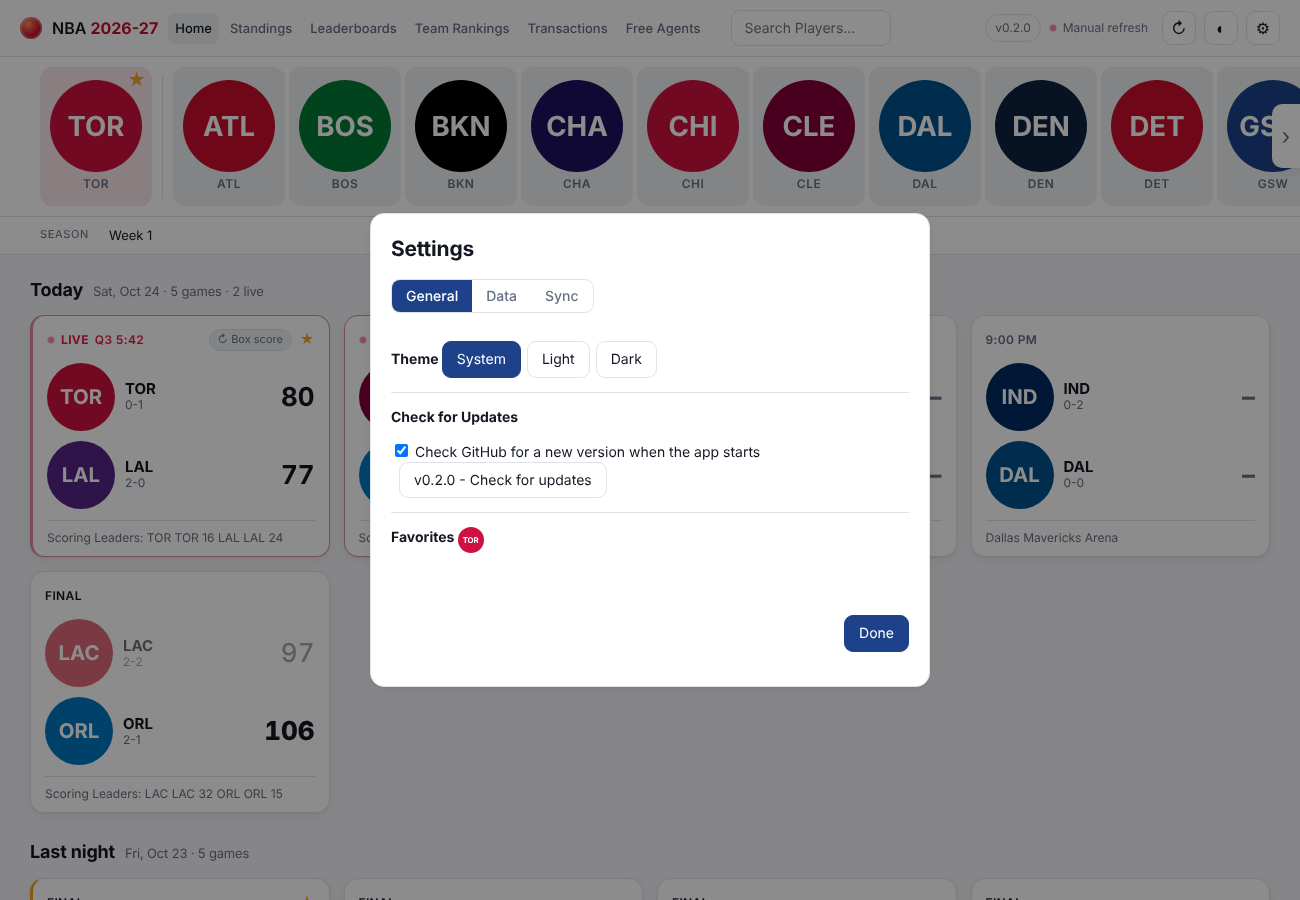
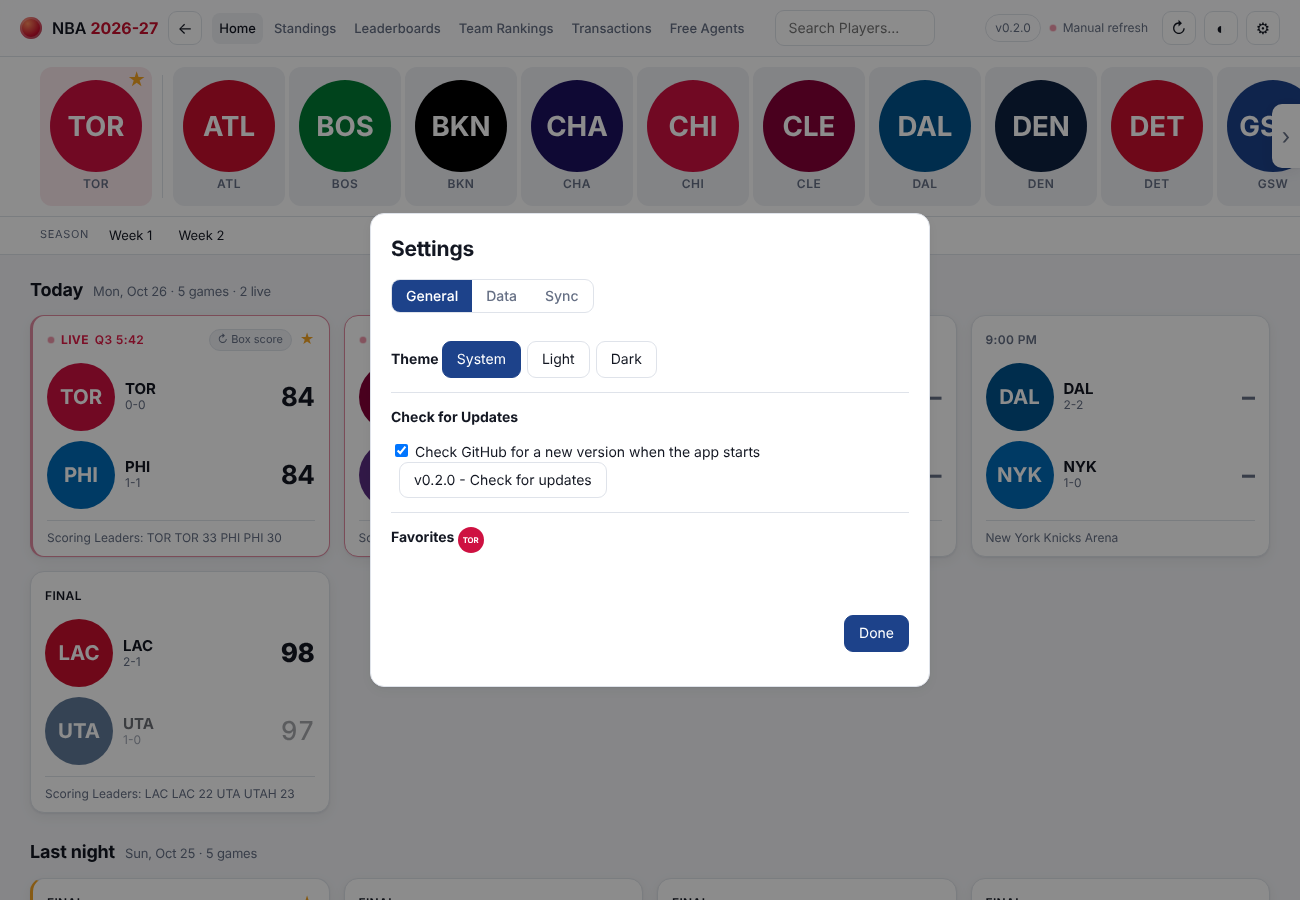
Feature - Back button, starters card; Bug/Fix - Monday weeks, fair samples on Losers cards
Claude-Session: https://claude.ai/code/session_016H3S1Tf6ZiEigWsjrNXmq9

diff --git a/ui/js/stats.js b/ui/js/stats.js
@@ -132,13 +132,15 @@ const pct = (m, a) => (a > 0 ? (100 * m) / a : NaN);
 
 // minGames-scaled qualification keeps tiny samples out early in the season
 export const LEADER_DEFS = [
+  { key: 'ptsStarters', loser: 'Fewest Points (Starters)', loserOnly: true, title: 'Points (Starters)', unit: 'PPG', v: (p) => per(p, 'pts'), f: 1,
+    ok: (p) => p.gs * 2 >= p.gp, sub: (p) => `${p.gs} GS \u00b7 ${p.gp} GP` },
   { key: 'pts', loser: 'Fewest Points', title: 'Points', unit: 'PPG', v: (p) => per(p, 'pts'), f: 1 },
   { key: 'reb', title: 'Rebounds', unit: 'RPG', v: (p) => per(p, 'reb'), f: 1 },
   { key: 'ast', title: 'Assists', unit: 'APG', v: (p) => per(p, 'ast'), f: 1 },
   { key: 'tpm', title: '3-Pointers Made', unit: '3PM/G', v: (p) => per(p, 'tpm'), f: 1 },
   { key: 'fgp', loser: 'Worst Field Goal %', title: 'Field Goal %', unit: 'FG%', v: (p) => pct(p.tot.fgm, p.tot.fga), f: 1, suffix: '%', ok: (p, a) => p.tot.fga >= 3 * a.games, sub: (p) => `${p.tot.fgm}/${p.tot.fga} FG` },
-  { key: 'tpp', loser: 'Worst 3-Point %', title: '3-Point %', unit: '3P%', v: (p) => pct(p.tot.tpm, p.tot.tpa), f: 1, suffix: '%', ok: (p, a) => p.tot.tpa >= 1 * a.games, sub: (p) => `${p.tot.tpm}/${p.tot.tpa} 3PT` },
-  { key: 'ftp', loser: 'Worst Free Throw %', title: 'Free Throw %', unit: 'FT%', v: (p) => pct(p.tot.ftm, p.tot.fta), f: 1, suffix: '%', ok: (p, a) => p.tot.fta >= 1 * a.games, sub: (p) => `${p.tot.ftm}/${p.tot.fta} FT` },
+  { key: 'tpp', loser: 'Worst 3-Point %', title: '3-Point %', unit: '3P%', v: (p) => pct(p.tot.tpm, p.tot.tpa), f: 1, suffix: '%', ok: (p, a) => p.tot.tpa >= 1 * a.games, okWorst: (p) => p.tot.tpa >= 10, sub: (p) => `${p.tot.tpm}/${p.tot.tpa} 3PT` },
+  { key: 'ftp', loser: 'Worst Free Throw %', title: 'Free Throw %', unit: 'FT%', v: (p) => pct(p.tot.ftm, p.tot.fta), f: 1, suffix: '%', ok: (p, a) => p.tot.fta >= 1 * a.games, okWorst: (p) => p.tot.fta >= 5, sub: (p) => `${p.tot.ftm}/${p.tot.fta} FT` },
   { key: 'stl', title: 'Steals', unit: 'SPG', v: (p) => per(p, 'stl'), f: 1 },
   { key: 'blk', title: 'Blocks', unit: 'BPG', v: (p) => per(p, 'blk'), f: 1 },
   { key: 'stocks', title: 'Stocks (Steals + Blocks)', unit: 'per game', v: (p) => (p.tot.stl + p.tot.blk) / p.gp, f: 1 },
@@ -158,7 +160,7 @@ export const LEADER_DEFS = [
 ];
 
 // Ranks players for every category. ctxFor(p) gives that player's team context {games, T, O}.
-// minMpg: minutes per team game needed to appear at all; minGpShare: share of team games the player must have played.
+// minMpg: minutes per game played needed to appear at all; minGpShare: share of team games the player must have played.
 // worst: the Losers view. Same qualification, reversed order, and only the categories where a low number means a player is bad at the game.
 // Small edge for a bigger sample: each value is pulled toward the pool average as if half an average game were added,
 // so a player with more games ranks ahead of one with fewer games and a near-identical number. The value shown is unchanged.
@@ -174,7 +176,7 @@ export function rankAll(players, ctxFor, top, { minMpg = 8, minGpShare = 0, wors
     const rows = players
       .filter((p) => {
         const c = ctxFor(p);
-        return c && c.games > 0 && p.gp > 0 && p.gp >= Math.ceil(minGpShare * c.games) && p.tot.min / c.games >= minMpg && (!d.ok || d.ok(p, c));
+        return c && c.games > 0 && p.gp > 0 && p.gp >= Math.ceil(minGpShare * c.games) && p.tot.min / p.gp >= minMpg && (!d.ok || d.ok(p, c)) && (!worst || !d.okWorst || d.okWorst(p));
       })
       .map((p) => ({ p, value: d.v(p, ctxFor(p)) }))
       .filter((r) => Number.isFinite(r.value));

diff --git a/ui/js/store.js b/ui/js/store.js
@@ -50,8 +50,10 @@ export const state = {
 // ---- season weeks: ESPN's "Week 1" is Oct 20-26, 2026 (opening night is a Tuesday); each week runs 7 days from there
 export const SEASON_START = '20261020';
 const keyToUtc = (k) => Date.UTC(+k.slice(0, 4), +k.slice(4, 6) - 1, +k.slice(6, 8));
-export const weekOfKey = (k) => Math.floor((keyToUtc(k) - keyToUtc(SEASON_START)) / 86400000 / 7) + 1;
-export const weekDayKeys = (n) => Array.from({ length: 7 }, (_, i) => addDaysKey(SEASON_START, (n - 1) * 7 + i));
+// Weeks run Monday to Sunday; Week 1 is the Monday-Sunday week the season opens in.
+export const WEEK_START = '20261019';
+export const weekOfKey = (k) => Math.floor((keyToUtc(k) - keyToUtc(WEEK_START)) / 86400000 / 7) + 1;
+export const weekDayKeys = (n) => Array.from({ length: 7 }, (_, i) => addDaysKey(WEEK_START, (n - 1) * 7 + i));
 export const weekRangeLabel = (n) => { const d = weekDayKeys(n); const f = (k) => fmtKey(k, { weekday: undefined }); return `${f(d[0])} - ${f(d[6])}`; };
 // weeks that have at least one saved day, ascending; the link only appears once there is data
 export const weeksWithData = () => [...new Set(state.cachedDayKeys.filter((k) => k >= SEASON_START).map(weekOfKey))].sort((a, b) => a - b);

diff --git a/ui/js/app.js b/ui/js/app.js
@@ -103,6 +103,13 @@ $('#btn-theme').addEventListener('click', () => {
   const next = order[(order.indexOf(S.state.settings.theme) + 1) % 3];
   S.saveSettings({ theme: next });
 });
+// Back: the page's own history (every view is a #/ route). Also Alt+Left and the mouse's back button.
+let navDepth = 0;
+window.addEventListener('hashchange', () => { navDepth++; $('#btn-back').disabled = false; });
+const goBack = () => { if (navDepth > 0) { navDepth -= 2; history.back(); } else location.hash = '#/'; };
+$('#btn-back').addEventListener('click', goBack);
+document.addEventListener('keydown', (e) => { if (e.altKey && e.key === 'ArrowLeft') { e.preventDefault(); goBack(); } });
+window.addEventListener('mouseup', (e) => { if (e.button === 3) { e.preventDefault(); goBack(); } });
 $('#btn-settings').addEventListener('click', openSettings);
 $('#btn-version').addEventListener('click', openUpdate);
 

diff --git a/ui/index.html b/ui/index.html
@@ -16,6 +16,7 @@
         <span class="brand-mark" aria-hidden="true"></span>
         <span class="brand-text">NBA <b>2026-27</b></span>
       </button>
+      <button id="btn-back" class="icon-btn back-btn" type="button" title="Back (Alt+Left)" aria-label="Back">&#x2190;</button>
       <nav id="nav" class="nav" aria-label="Sections">
         <a href="#/" data-route="home">Home</a>
         <a href="#/standings" data-route="standings">Standings</a>

diff --git a/ui/css/app.css b/ui/css/app.css
@@ -423,3 +423,4 @@ a.plink:hover { color: var(--accent2); }
 /* six nav links: tighten earlier, and drop the brand text on narrow windows */
 @media (max-width: 1440px) { #topbar { gap: 10px; } .nav a { padding: 6px 7px; font-size: 13px; } .psearch input { width: 160px; } }
 @media (max-width: 1180px) { .brand-text { display: none; } .psearch input { width: 130px; } .nav { gap: 0; } }
+.back-btn { flex: 0 0 auto; font-size: 16px; }

diff --git a/CHANGELOG.md b/CHANGELOG.md
@@ -7,9 +7,13 @@ Release rhythm: changes are merged as they are done without changing VERSION, an
 ## Unreleased
 
 **Feature**
+- Back button (also Alt+Left and the mouse back button).
+- New Fewest Points (Starters) card, first on the Losers tab.
 - New Free Agents page: recently waived players (including ESPN's official transactions list, loaded on request), a watch list with notes, and a notice when a watched player signs.
 
 **Bug/Fix**
+- Weeks now run Monday to Sunday.
+- Losers cards need a fair sample: 10+ minutes per game played, 5+ free throws for Worst FT%, 10+ threes for Worst 3P%.
 - Fixed bug with injury tags not showing on team rosters.
 - Box scores now list inactive players, with their injury status when known.
 - Fixed bug with player pictures not loading until a player was opened.
